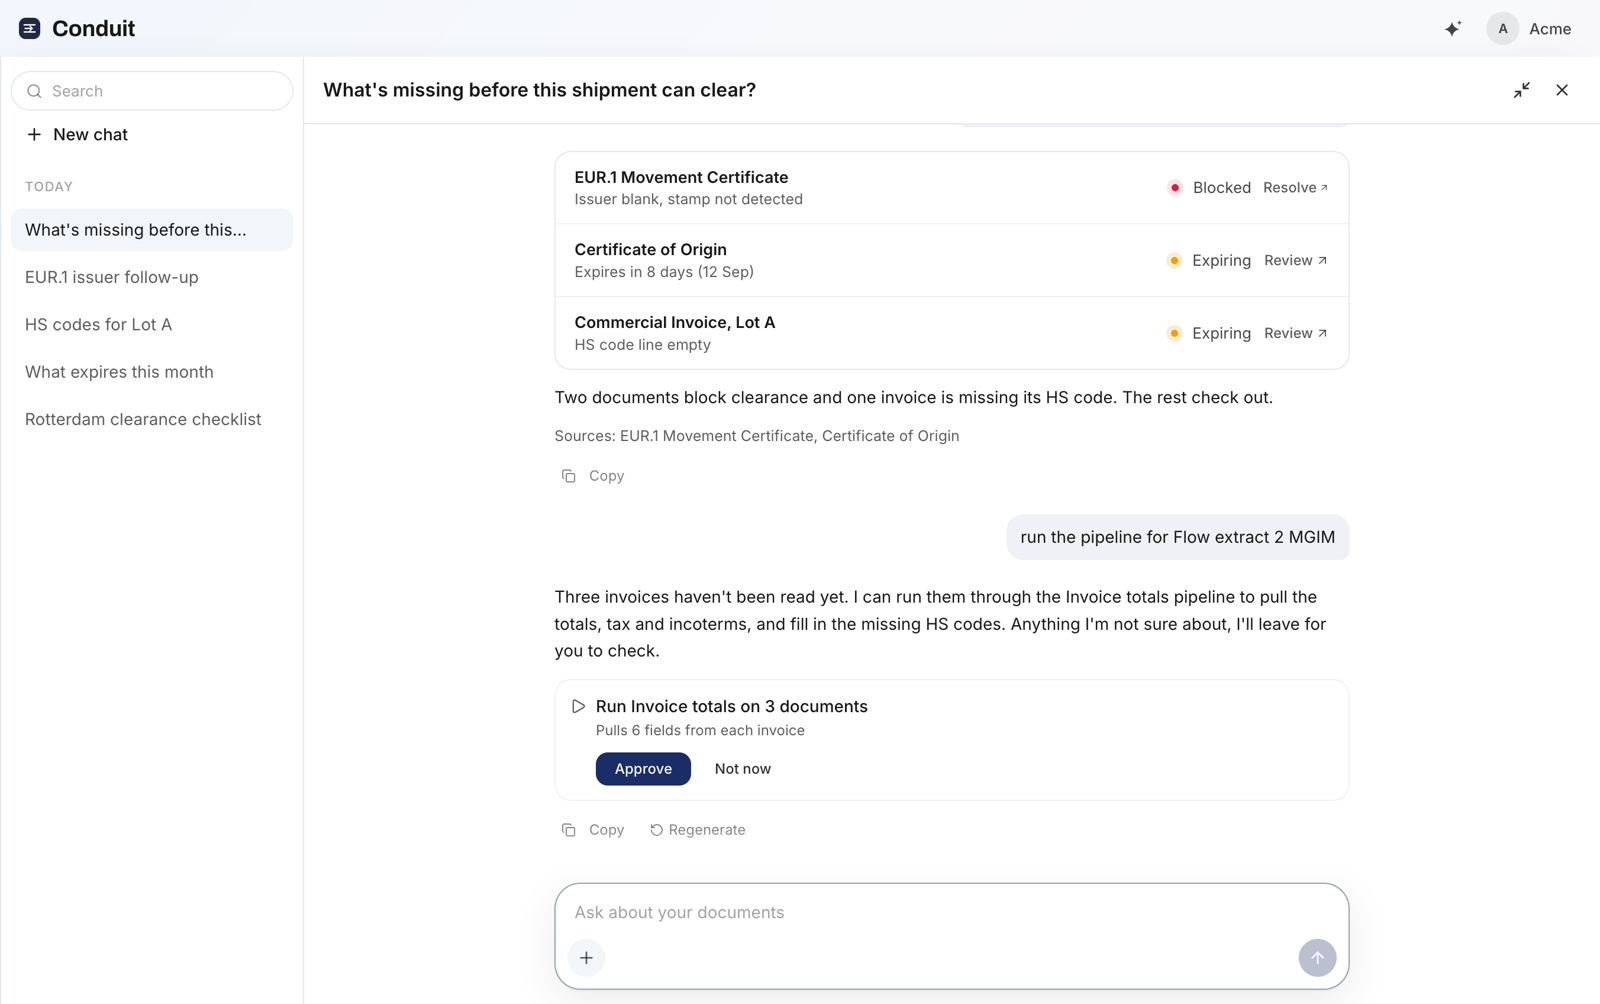
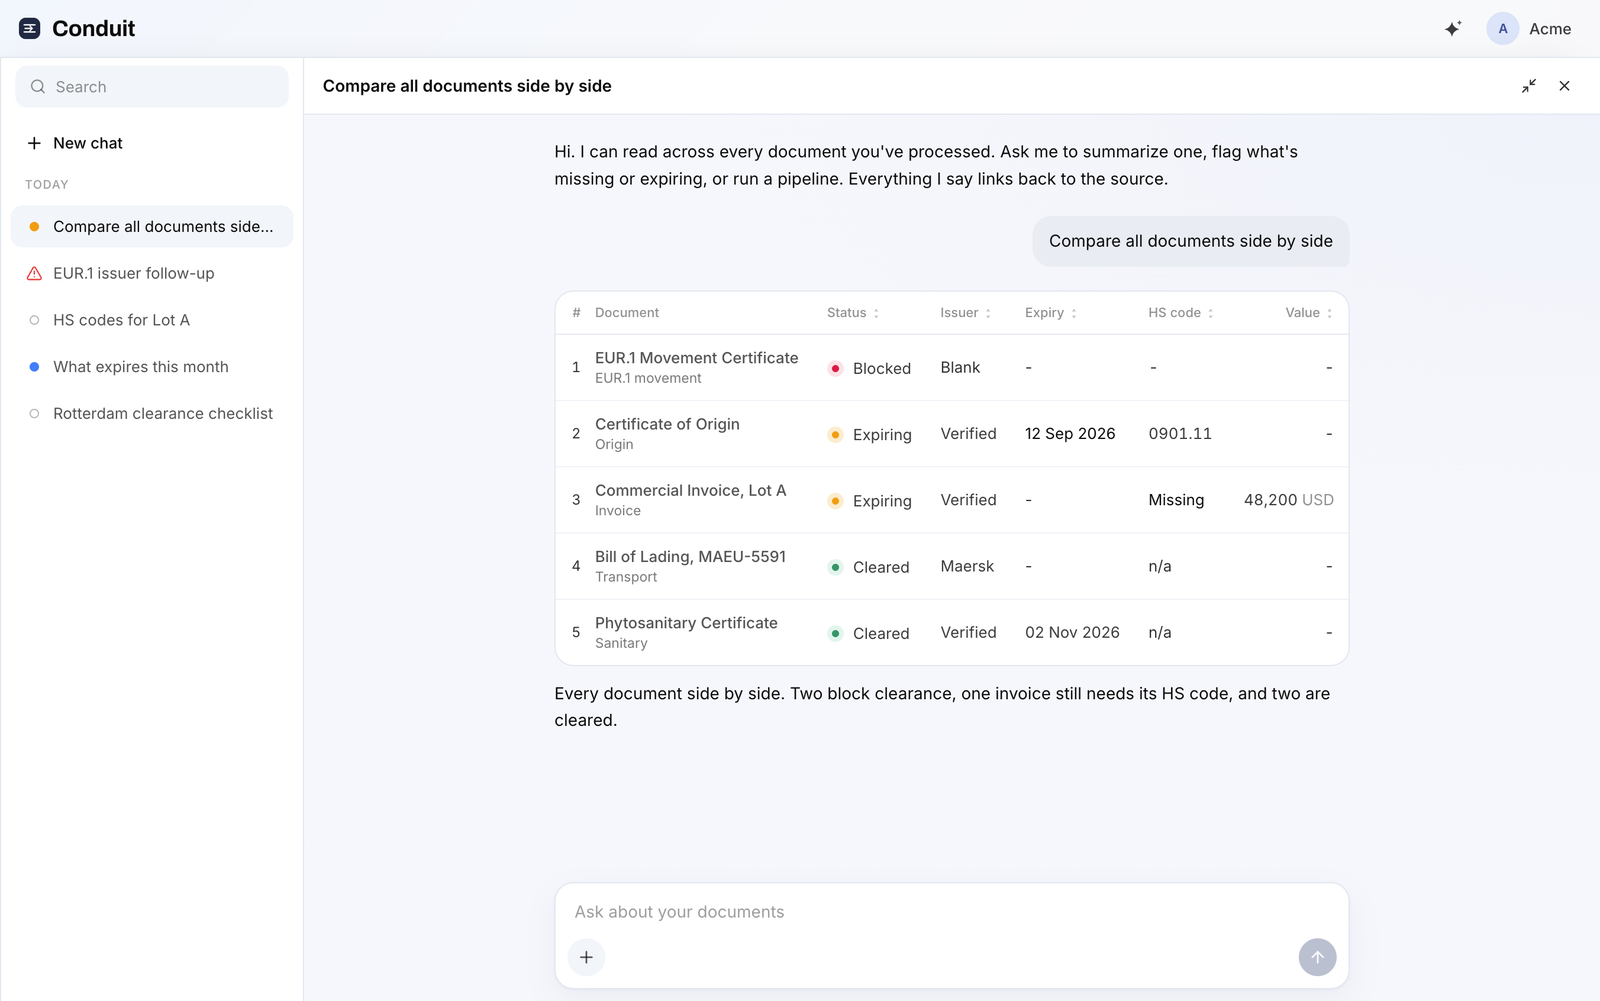
Replace the Conduit conversational screenshots (#88)
* Show the Conduit conversational screens full width

Split the two ask screenshots out of their side-by-side grid so each sits
full width under the paragraph it illustrates, and split the shared
caption to match.

Claude-Session: https://claude.ai/code/session_01M4YX7mcUfnGRLRr3oX2SC1

* Replace the Conduit conversational screenshots

Swap in the latest chat screens: the executive brief answered in the side
panel, and the expanded side-by-side document comparison. Alt text and
the second caption now describe what the new screens show.

Claude-Session: https://claude.ai/code/session_01M4YX7mcUfnGRLRr3oX2SC1

---------

diff --git a/app/projects/conduit/page.tsx b/app/projects/conduit/page.tsx
@@ -250,7 +250,7 @@ export default function ConduitCaseStudy() {
               </div>
 
               <div className="rounded-xl overflow-hidden max-w-[750px]">
-                <LightboxImage src="/conduit/ask-0.png" alt="A question about a shipment answered in a side panel next to Runs, listing the blocked and expiring documents" width={1600} height={1002} className="block w-full h-auto" />
+                <LightboxImage src="/conduit/ask-0.png" alt="An executive brief answered in a side panel next to Pipelines, naming the blocked and expiring documents and citing its sources" width={1600} height={1000} className="block w-full h-auto" />
               </div>
               <p className="mt-3 text-sm text-muted-foreground max-w-[750px] text-center mb-10">The answer arrives with the documents it came from.</p>
 
@@ -264,9 +264,9 @@ export default function ConduitCaseStudy() {
               </div>
 
               <div className="rounded-xl overflow-hidden max-w-[750px]">
-                <LightboxImage src="/conduit/ask-1.png" alt="The same conversation expanded, offering to run a pipeline on three unprocessed invoices and waiting for approval" width={1600} height={1004} className="block w-full h-auto" />
+                <LightboxImage src="/conduit/ask-1.png" alt="The chat expanded to full width, comparing every document in a table with status, issuer, expiry, HS code and value" width={1600} height={1001} className="block w-full h-auto" />
               </div>
-              <p className="mt-3 text-sm text-muted-foreground max-w-[750px] text-center mb-10">The next step is offered rather than taken.</p>
+              <p className="mt-3 text-sm text-muted-foreground max-w-[750px] text-center mb-10">Expanded to compare every document side by side, with the blockers called out.</p>
 
               <h3 className="font-serif text-[1.35rem] leading-[1.3] tracking-[-0.01em] mb-3 max-w-[750px]">From document processing to agentic workflows</h3>
               <div className="space-y-3 text-[17px] leading-relaxed text-muted-foreground max-w-[750px]">
